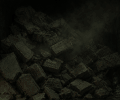
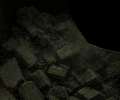
Art: painted rubble pass 2 - baked haze at top right replaced by dark corridor, wet floor trimmed (crop 300,50,900,575), 1px dark silhouette outline + lit top edges; ~0.93 wall brightness

diff --git a/scripts/build_rubble_from_source.py b/scripts/build_rubble_from_source.py
@@ -12,7 +12,12 @@ D='public/art/dungeon_v2/'
 SIZES={'near':(160,140),'mid':(120,100),'far':(80,70)}
 src=Image.open(SRC).convert('RGB')
 if len(sys.argv)==5: CROP=tuple(map(int,sys.argv[1:]))
-else: CROP=(300,50,960,628)   # 1280x720 source: lantern (x~155-205) and painted side walls cropped out, heap fills, dark corridor above right
+else: CROP=(300,50,900,575)   # 1280x720 source: lantern (x~155-205) and painted side walls cropped out, heap fills, dark corridor above right
+# 1) baked-in haze at the top right -> dark corridor (polygon above the heap's right flank, source coords)
+from PIL import ImageDraw
+HAZE=[(630,50),(1280,50),(1280,370),(880,320),(800,300),(740,275),(690,200),(645,120)]
+ImageDraw.Draw(src).polygon(HAZE,fill=(0,0,0))
+# 2) crop: y1=575 / x1=900 trims the painted wet floor so the heap base sits on the bottom row
 crop=src.crop(CROP)
 for dist,(w,h) in SIZES.items():
     wall=np.array(Image.open(D+f'wall_front_{dist}.png').convert('RGB')).astype(int)
@@ -23,11 +28,22 @@ for dist,(w,h) in SIZES.items():
     top=P[-1].astype(float); ext=[np.clip(np.round(top*(1+0.12*k)),0,255).astype(int) for k in (1,2)]
     RAMP=np.vstack([P]+[e[None] for e in ext])
     small=np.array(crop.resize((w,h),Image.BOX)).astype(float)   # the only resample
-    target=wall.mean()*0.95
+    target=wall.mean()*0.93
+    RI={tuple(c):i for i,c in enumerate(RAMP)}
+    DARKT=RAMP[min(len(RAMP)-1,step)].sum()   # 'darkness' = the lowest eighth of the ramp
     def q(img):
-        f=img.reshape(-1,1,3); i=((f-RAMP[None])**2).sum(2).argmin(1); return RAMP[i].reshape(img.shape)
+        f=img.reshape(-1,1,3); i=((f-RAMP[None])**2).sum(2).argmin(1); o=RAMP[i].reshape(img.shape)
+        # 3) sharpen: 1px darker outline where stone meets darkness, lit top edges -> brighter shade
+        L=o.sum(2); dark=L<=DARKT; res=o.copy()
+        for yy in range(h):
+            for xx in range(w):
+                if dark[yy,xx]: continue
+                nb=[(yy+dy,xx+dx) for dy,dx in ((-1,0),(1,0),(0,-1),(0,1)) if 0<=yy+dy<h and 0<=xx+dx<w]
+                if yy>0 and dark[yy-1,xx]: res[yy,xx]=RAMP[min(len(RAMP)-1,RI[tuple(o[yy,xx])]+2*step)]
+                elif any(dark[a,b] for a,b in nb): res[yy,xx]=RAMP[max(0,RI[tuple(o[yy,xx])]-step)]
+        return res
     lo,hi=0.2,4.0
-    for _ in range(18):
+    for _ in range(14):
         g=(lo+hi)/2
         if q(np.clip(small*g,0,255)).mean()<target: lo=g
         else: hi=g
